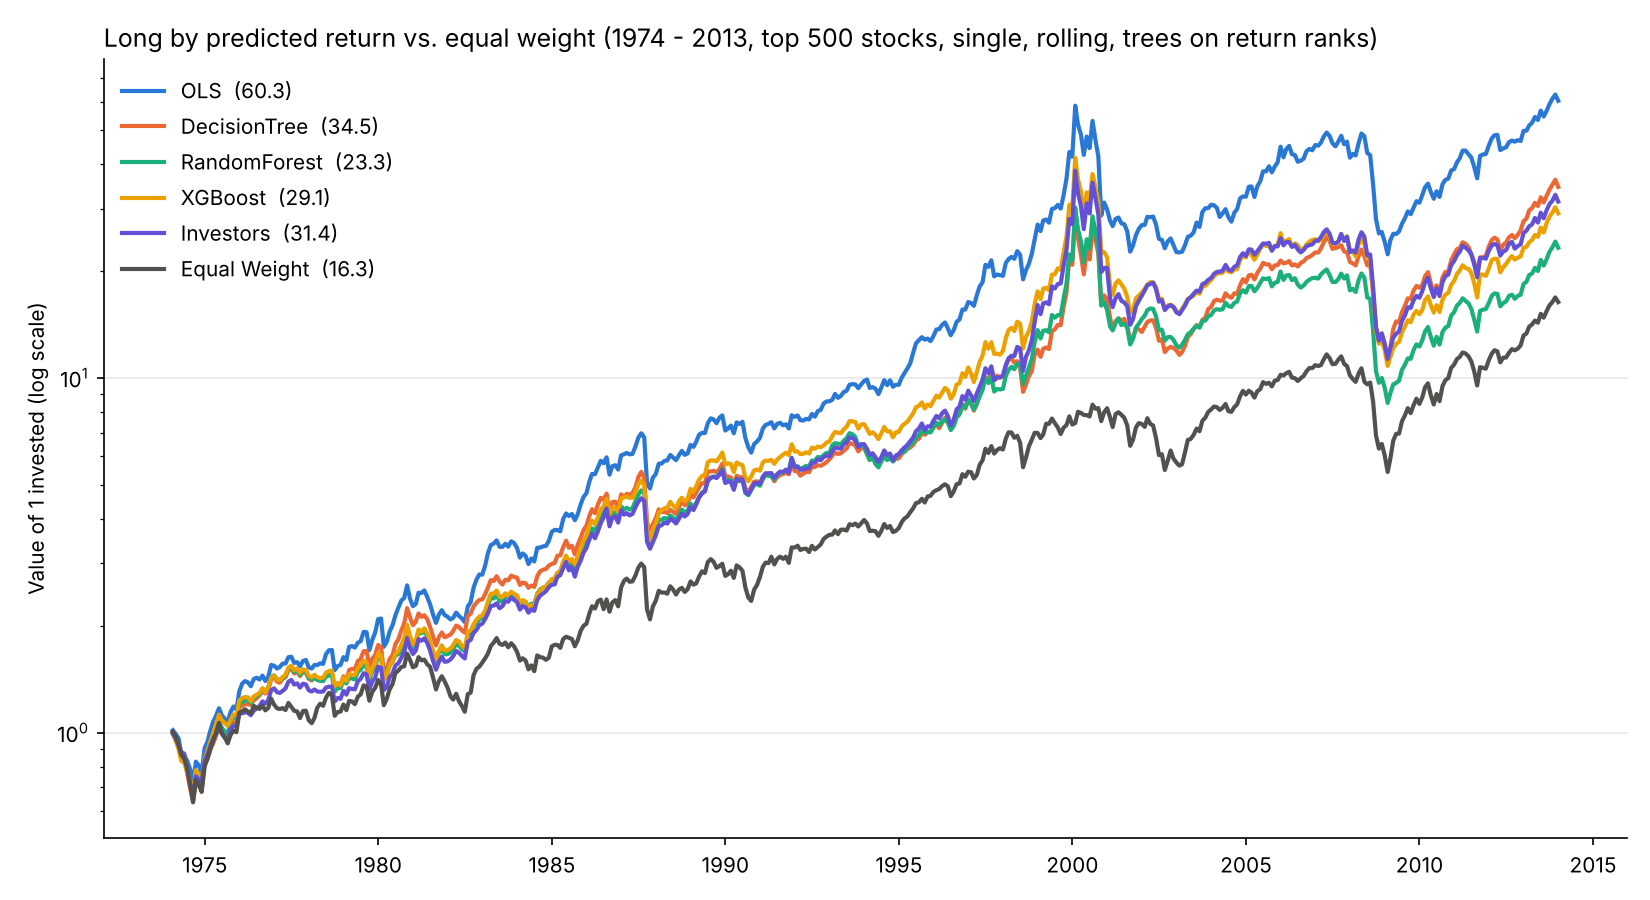
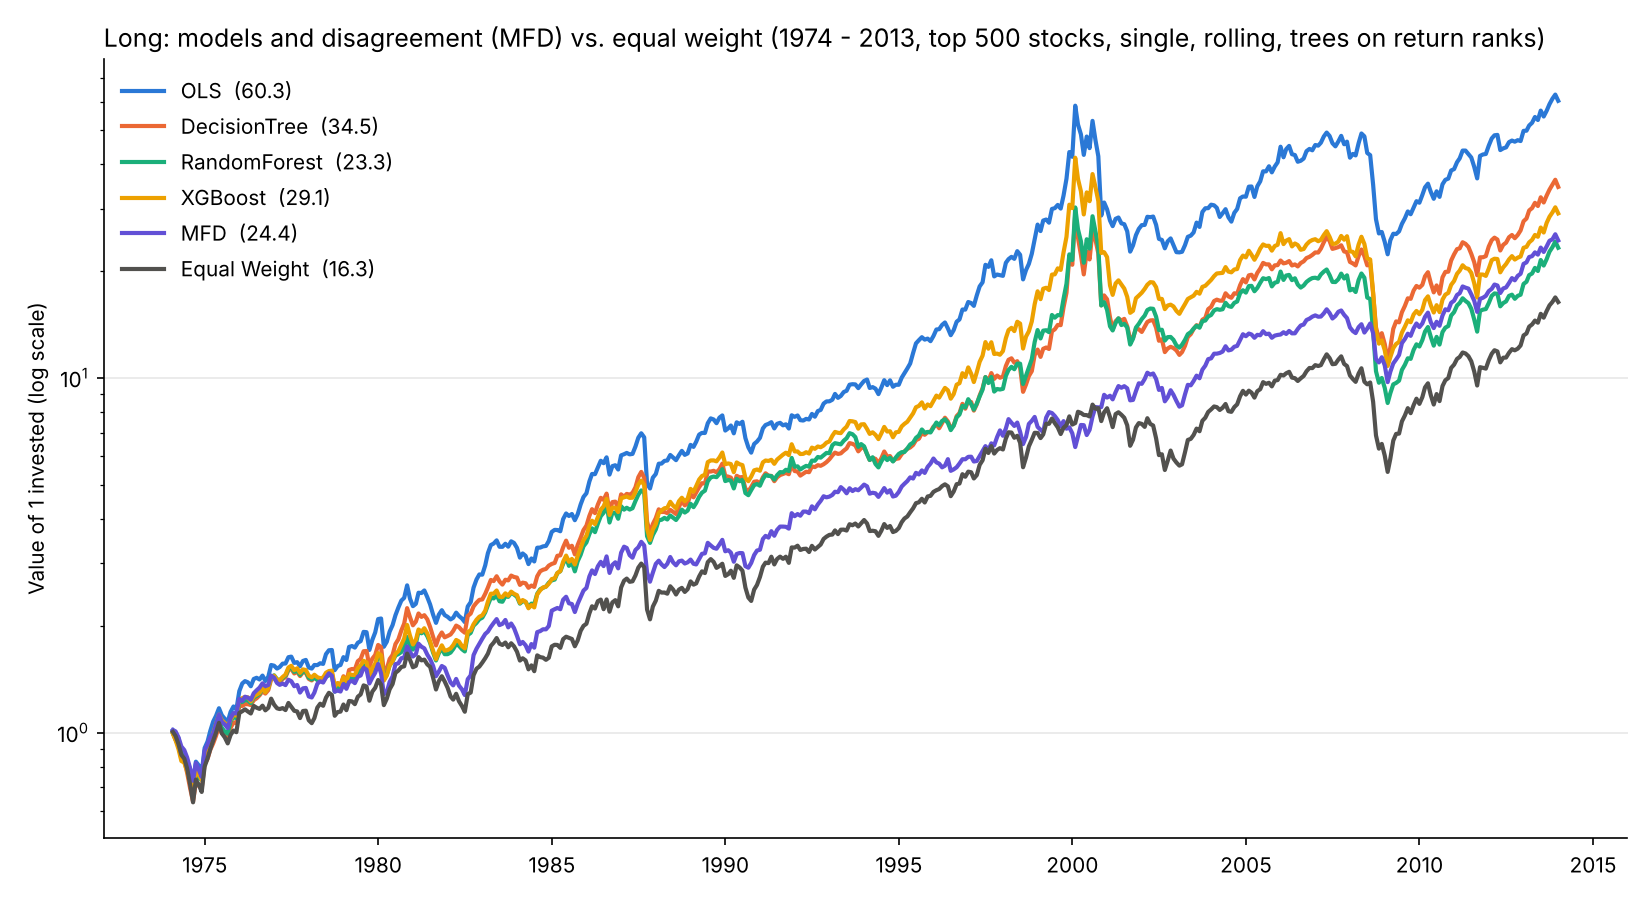
Strategy charts: MFD instead of Investors
The performance charts in predicted_return/ now show the models without
Investors (its forecast stays in the tables) plus the strategy sorted by
disagreement (MFD). Existing charts, including the November 2 charts in
vergleich/, are redrawn from the saved monthly returns; nothing is
re-estimated.

Claude-Session: https://claude.ai/code/session_01DL7Jun78GeQg1Rek5h3q1R

diff --git a/main.py b/main.py
@@ -292,10 +292,6 @@ for filename, table in results.items():
 universe_label = f"top {UNIVERSE_SIZE} stocks" if UNIVERSE == "top500" else f"{UNIVERSE} stocks"
 period = (f"{preds[DATE].min():%Y} - {preds[DATE].max():%Y}, {universe_label}, {ESTIMATION}, {WINDOW_TYPE}"
           + (", trees on return ranks" if TARGET == "rank" else ""))
-for label in STRATEGIES:  # eine Grafik pro Strategie: alle Modelle und Equal Weight
-    util.plot_performance(strategy[label].assign(**{"Equal Weight": equal_weight}),
-                          f"{label} by predicted return vs. equal weight ({period})",
-                          os.path.join(PRED_DIR, f"performance_{label.lower()}.png"))
 for window in [ROLLING_MONTHS, 120]:
     util.plot_time_variation(series, window, f"Predictive ability through time, {window}-month rolling mean "
                              f"({period})", os.path.join(PRED_DIR, f"time_variation_{window}m.png"))
@@ -369,3 +365,13 @@ if "MFD" in preds:
         util.plot_time_variation(mfd_series, window, f"Disagreement effect through time, {window}-month rolling "
                                  f"mean ({period})", os.path.join(MFD_DIR, f"time_variation_{window}m.png"))
     print(f"\n  Results saved to '{MFD_DIR}'")
+
+# Grafiken der Strategien (Schritt 6 und 8), eine pro Strategie: die Modelle ohne Investors (deren Prognose
+# steht in den Tabellen), dazu die Strategie nach der Disagreement (MFD) und Equal Weight
+for label in STRATEGIES:
+    lines = strategy[label].drop(columns="Investors", errors="ignore")
+    if "Investors" in MODELS_TO_RUN:
+        lines = lines.assign(MFD=mfd_strategy[(label, "MFD")])
+    util.plot_performance(lines.assign(**{"Equal Weight": equal_weight}),
+                          f"{label}: models and disagreement (MFD) vs. equal weight ({period})",
+                          os.path.join(PRED_DIR, f"performance_{label.lower()}.png"))

diff --git a/README.md b/README.md
@@ -918,6 +918,9 @@ Die Grafiken `performance_long.png`, `performance_short.png` und
 `performance_long-short.png` in `output/return/single/predicted_return/` zeigen die
 Wertentwicklung von 1 investierten Dollar je Modell gegen Equal Weight
 (logarithmische Skala: gleiche prozentuale Rendite ergibt gleiche Steigung).
+Statt der Investors-Prognose (sie steht in den Tabellen) zeigen sie die
+Strategie nach der Disagreement (MFD, Schritt 8): Long = geringste,
+Short = höchste Disagreement.
 Für Long-Short ist das eine Näherung: Man stellt sich vor, das Kapital liegt
 als Sicherheit und erhält zusätzlich die Long-Short-Rendite.
 
@@ -1742,7 +1745,7 @@ output/
 | `feature_importance.csv` | Feature Importances der Bäume |
 | `hyperparameters.csv` | gewählte Hyperparameter je Modell und Jahr mit dem Validierungsfehler (siehe 2i) |
 | `strategy_returns.csv`, `performance.csv` | Long, Short und Long-Short je Modell plus Equal Weight (Schritt 6) |
-| `performance_long.png`, `performance_short.png`, `performance_long-short.png` | Wertentwicklung je Strategie |
+| `performance_long.png`, `performance_short.png`, `performance_long-short.png` | Wertentwicklung je Strategie: die Modelle ohne Investors, dazu die MFD-Strategie und Equal Weight |
 | `time_variation_monthly.csv`, `time_variation_trends.csv` | Schritt 7: Kennzahlen pro Monat, Hälftenvergleich und Trendtest |
 | `time_variation_12m.png`, `time_variation_120m.png` | Schritt 7: gleitende Mittelwerte |
 
